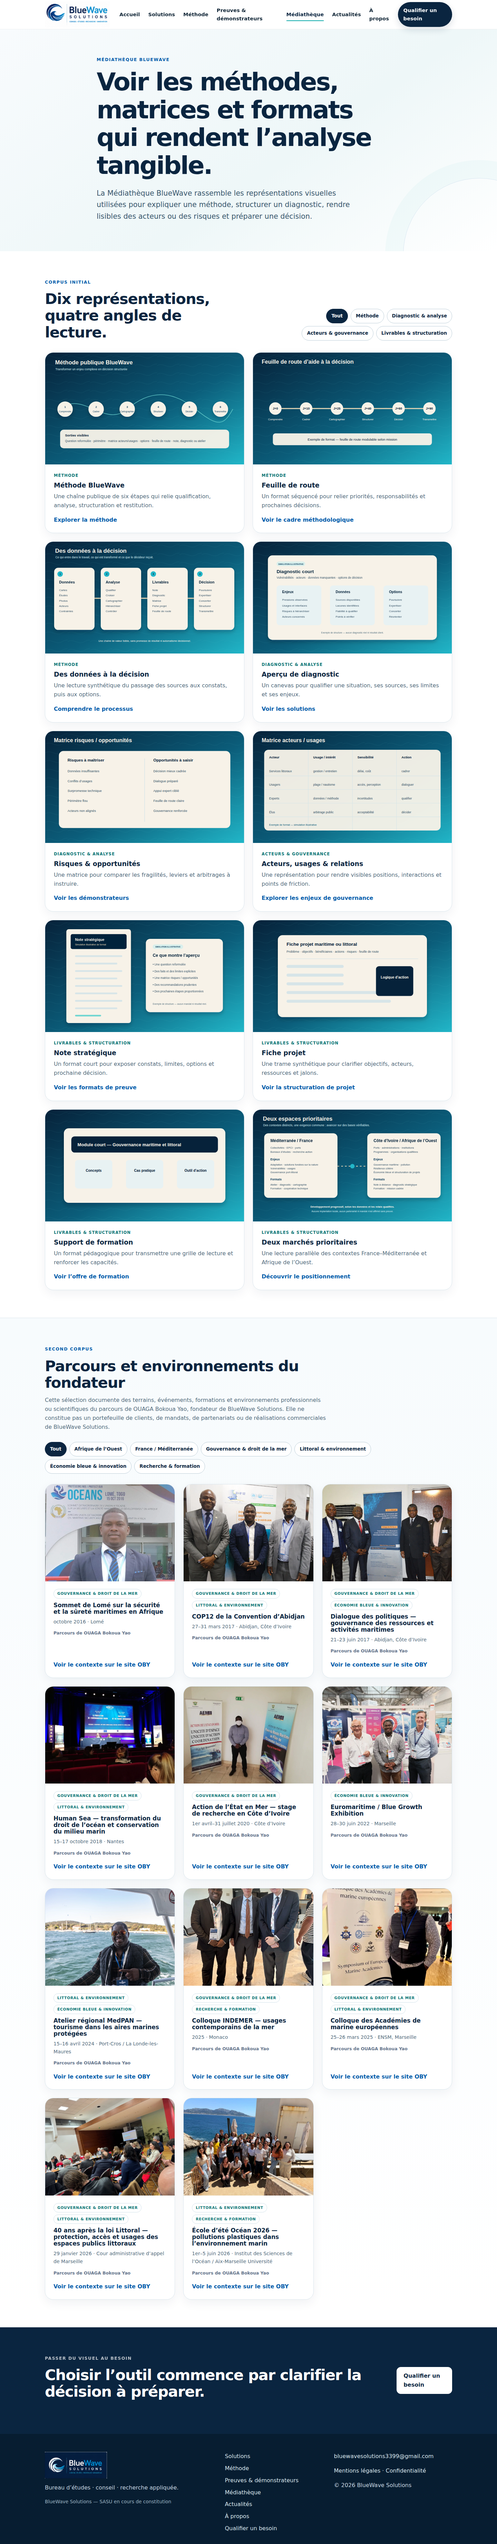
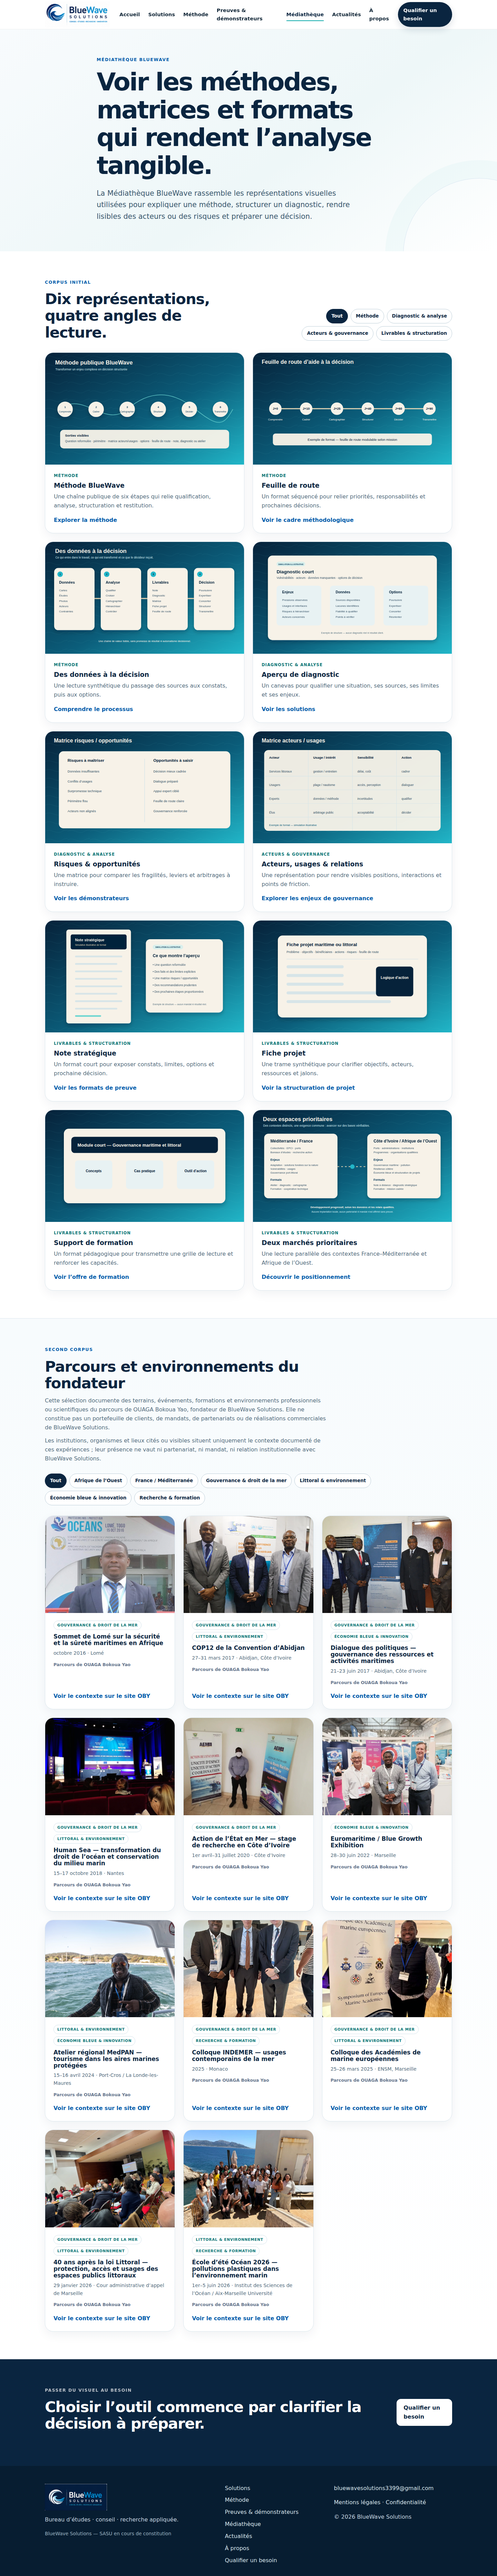
fix(mediatheque): garde institutionnelle dans l'introduction du corpus fondateur
Ajoute, apres la mention publique de separation, une seule phrase globale :
les institutions, organismes et lieux cites ou visibles situent uniquement le
contexte documente de ces experiences ; leur presence ne vaut ni partenariat,
ni mandat, ni relation institutionnelle avec BlueWave Solutions.

Une occurrence unique en tete de section, jamais repetee par carte.
quality_check.py verifie cette unicite dans les deux sens et refuse que le
script de rendu la duplique sur les cartes ; controle par test negatif sur
absence et sur duplication.

Le CSS espace les deux enonces pour qu'ils restent distincts a la lecture.

Nom du fondateur : le contenu public BlueWave ne portait deja aucune occurrence
de « Joseph OUAGA ». La forme canonique « OUAGA Bokoua Yao » provient de la
normalisation faite a la generation par build_evidence_fondateur.py, pas d'une
correction manuelle : une regeneration complete depuis les sources reproduit
des fichiers identiques a l'octet. La source OBY, qui conserve l'autre forme
dans deux alt, n'est pas modifiee.

Captures QA de la Mediatheque regenerees en desktop, tablette et mobile.

Corpus et baseline inchanges : 11/11 entrees, 11/11 copies byte-to-byte,
10/10 cartes BlueWave, filtres et visionneuse intacts.

diff --git a/mediatheque.html b/mediatheque.html
@@ -43,7 +43,7 @@
 </div>
 </div></section>
 <section class="section parcours-fondateur" aria-labelledby="parcours-fondateur-title"><div class="container">
-<div class="parcours-intro"><p class="eyebrow">Second corpus</p><h2 id="parcours-fondateur-title">Parcours et environnements du fondateur</h2><p class="parcours-note">Cette sélection documente des terrains, événements, formations et environnements professionnels ou scientifiques du parcours de OUAGA Bokoua Yao, fondateur de BlueWave Solutions. Elle ne constitue pas un portefeuille de clients, de mandats, de partenariats ou de réalisations commerciales de BlueWave Solutions.</p></div>
+<div class="parcours-intro"><p class="eyebrow">Second corpus</p><h2 id="parcours-fondateur-title">Parcours et environnements du fondateur</h2><p class="parcours-note">Cette sélection documente des terrains, événements, formations et environnements professionnels ou scientifiques du parcours de OUAGA Bokoua Yao, fondateur de BlueWave Solutions. Elle ne constitue pas un portefeuille de clients, de mandats, de partenariats ou de réalisations commerciales de BlueWave Solutions.</p><p class="parcours-note parcours-garde">Les institutions, organismes et lieux cités ou visibles situent uniquement le contexte documenté de ces expériences ; leur présence ne vaut ni partenariat, ni mandat, ni relation institutionnelle avec BlueWave Solutions.</p></div>
 <div class="parcours-filters" role="group" aria-label="Filtrer le parcours du fondateur" data-parcours-filters hidden></div>
 <p class="sr-only" aria-live="polite" data-parcours-status></p>
 <div class="parcours-grid" data-parcours-grid></div>

diff --git a/assets/css/evidence-fondateur.css b/assets/css/evidence-fondateur.css
@@ -21,6 +21,11 @@
   margin-bottom: 0;
 }
 
+/* La garde institutionnelle suit la mention de séparation : deux énoncés distincts. */
+.parcours-note + .parcours-note {
+  margin-top: 12px;
+}
+
 .parcours-filters {
   display: flex;
   flex-wrap: wrap;

diff --git a/quality/scripts/quality_check.py b/quality/scripts/quality_check.py
@@ -276,7 +276,14 @@ def main():
         'BlueWave a participé','partenaire de BlueWave','client de BlueWave','notre partenaire','notre client',
         'mission BlueWave','référence BlueWave','mandat BlueWave','partenariat BlueWave','BlueWave a accompagné',
     ]
+    EVIDENCE_GUARD=('Les institutions, organismes et lieux cités ou visibles situent uniquement le contexte '
+        'documenté de ces expériences ; leur présence ne vaut ni partenariat, ni mandat, ni relation '
+        'institutionnelle avec BlueWave Solutions.')
     if EVIDENCE_NOTICE not in media:errors.append('mediatheque.html: mention publique de séparation du parcours fondateur absente')
+    # Garde institutionnelle : une seule occurrence globale, jamais répétée par carte.
+    if media.count(EVIDENCE_GUARD)!=1:errors.append(f'mediatheque.html: garde institutionnelle attendue exactement une fois ({media.count(EVIDENCE_GUARD)} trouvée(s))')
+    evidence_js=(ROOT/'assets/js/evidence-fondateur.js').read_text(encoding='utf-8')
+    if EVIDENCE_GUARD[:40] in evidence_js:errors.append('evidence-fondateur.js: garde institutionnelle dupliquée par carte')
     if 'Parcours et environnements du fondateur' not in media:errors.append('mediatheque.html: titre du corpus fondateur absent')
     for asset in ('assets/css/evidence-fondateur.css','assets/js/evidence-fondateur.js'):
         if asset not in media:errors.append(f'mediatheque.html: ressource du corpus fondateur absente {asset}')
